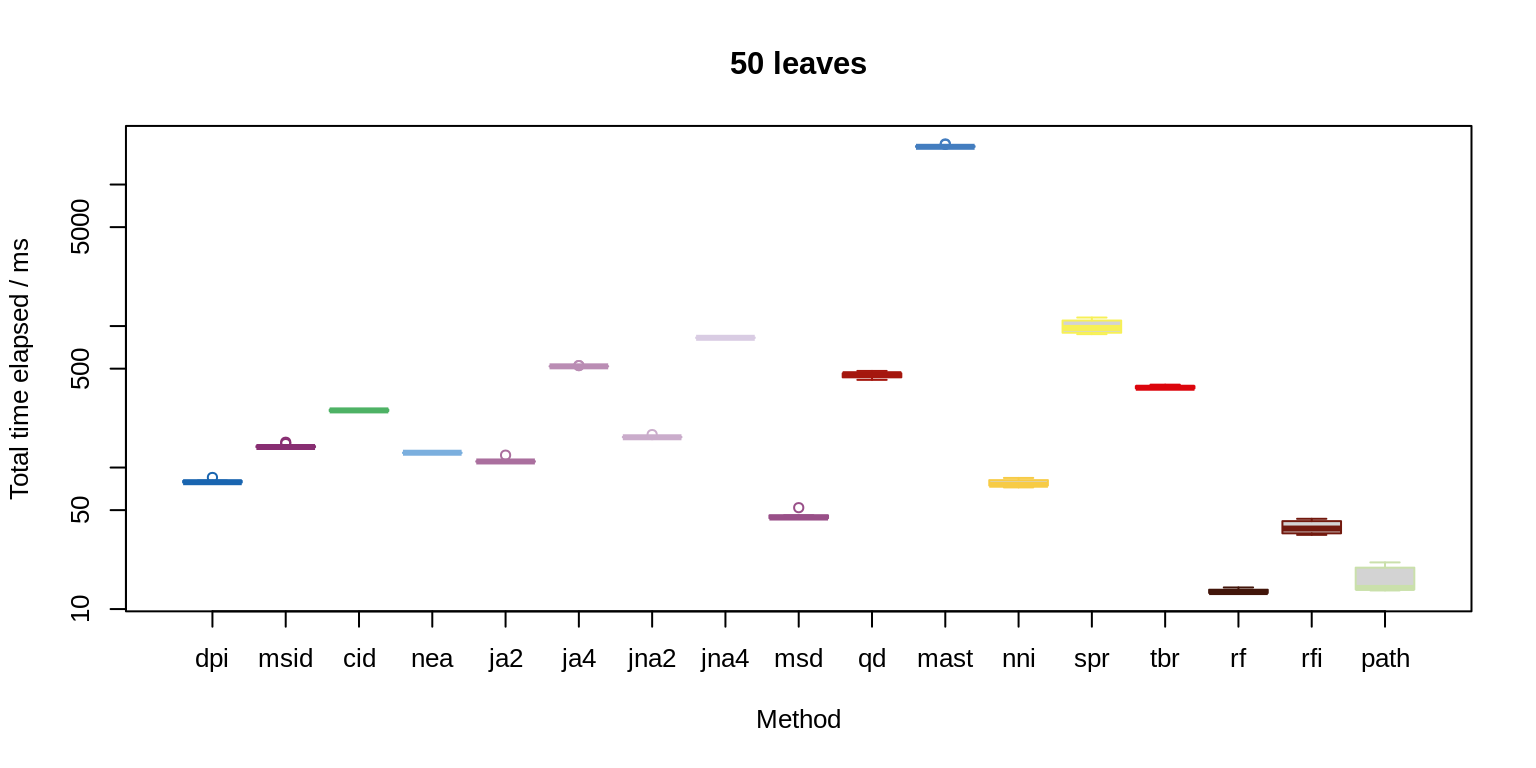
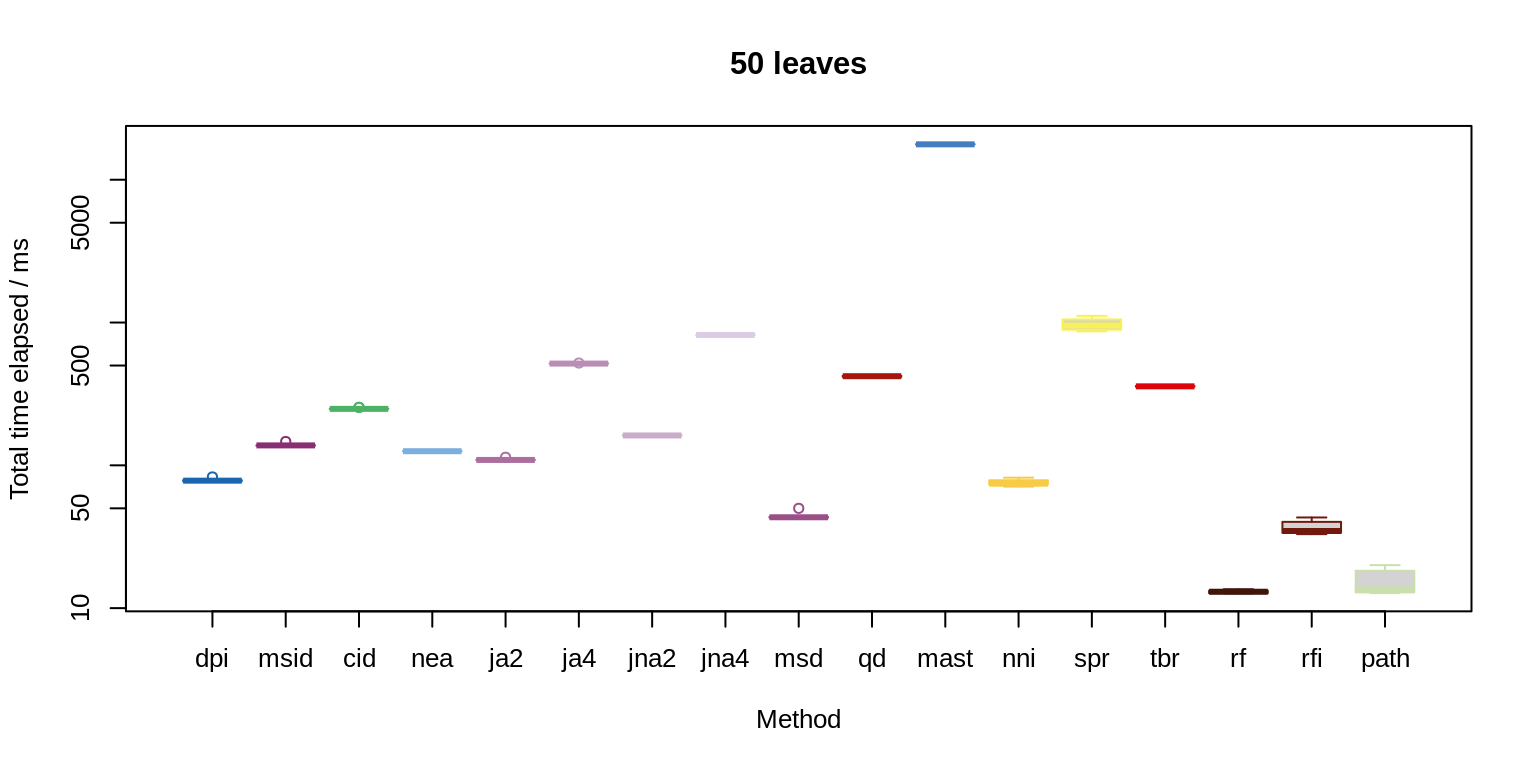
Built site for TreeDistData: 0.1.0@92e808e

diff --git a/articles/10-timing.html b/articles/10-timing.html
@@ -119,7 +119,7 @@
                         <h4 class="author">Martin R. Smith <a href="mailto:martin.smith@durham.ac.uk">martin.smith@durham.ac.uk</a>
 </h4>
             
-            <h4 class="date">2020-06-02</h4>
+            <h4 class="date">2020-06-03</h4>
       
       <small class="dont-index">Source: <a href="https://github.com/ms609/TreeDistData/blob/master/vignettes/10-timing.Rmd"><code>vignettes/10-timing.Rmd</code></a></small>
       <div class="hidden name"><code>10-timing.Rmd</code></div>
@@ -150,88 +150,88 @@ The values reported in Smith <span class="citation">(2020)</span> were calculate
 <tbody>
 <tr class="odd">
 <td>Path</td>
-<td align="right">9.6</td>
-<td align="right">17</td>
+<td align="right">8.6</td>
+<td align="right">16</td>
 </tr>
 <tr class="even">
 <td>Robinson-Foulds</td>
-<td align="right">13.0</td>
+<td align="right">12.0</td>
 <td align="right">13</td>
 </tr>
 <tr class="odd">
 <td>Match. Split Dist.</td>
-<td align="right">17.0</td>
-<td align="right">46</td>
+<td align="right">16.0</td>
+<td align="right">44</td>
 </tr>
 <tr class="even">
 <td>Phylog. Info. Dist</td>
-<td align="right">20.0</td>
-<td align="right">80</td>
+<td align="right">19.0</td>
+<td align="right">79</td>
 </tr>
 <tr class="odd">
 <td>Info. Corr. RF</td>
-<td align="right">21.0</td>
-<td align="right">38</td>
+<td align="right">20.0</td>
+<td align="right">37</td>
+</tr>
+<tr class="even">
+<td>Match. Split Info Dist</td>
+<td align="right">24.0</td>
+<td align="right">140</td>
+</tr>
+<tr class="odd">
+<td>Nye et al.</td>
+<td align="right">25.0</td>
+<td align="right">130</td>
 </tr>
 <tr class="even">
 <td>JRF (k=2, no conflict)</td>
-<td align="right">26.0</td>
+<td align="right">25.0</td>
 <td align="right">110</td>
 </tr>
 <tr class="odd">
-<td>Match. Split Info Dist</td>
-<td align="right">26.0</td>
-<td align="right">140</td>
-</tr>
-<tr class="even">
-<td>Nye et al.</td>
-<td align="right">26.0</td>
-<td align="right">130</td>
-</tr>
-<tr class="odd">
 <td>JRF (k=2, conflict ok)</td>
-<td align="right">30.0</td>
-<td align="right">170</td>
+<td align="right">29.0</td>
+<td align="right">160</td>
 </tr>
 <tr class="even">
 <td>Clust. Info. Dist.</td>
-<td align="right">45.0</td>
-<td align="right">260</td>
+<td align="right">43.0</td>
+<td align="right">250</td>
 </tr>
 <tr class="odd">
 <td>JRF (k=4, no conflict)</td>
-<td align="right">46.0</td>
-<td align="right">530</td>
+<td align="right">44.0</td>
+<td align="right">520</td>
 </tr>
 <tr class="even">
 <td>JRF (k=4, conflict ok)</td>
-<td align="right">57.0</td>
+<td align="right">54.0</td>
 <td align="right">830</td>
 </tr>
 <tr class="odd">
 <td>NNI (approx.)</td>
-<td align="right">67.0</td>
-<td align="right">78</td>
+<td align="right">62.0</td>
+<td align="right">76</td>
 </tr>
 <tr class="even">
 <td>SPR (approx.)</td>
-<td align="right">110.0</td>
-<td align="right">1000</td>
+<td align="right">100.0</td>
+<td align="right">980</td>
 </tr>
 <tr class="odd">
 <td>TBR (approx.)</td>
-<td align="right">210.0</td>
-<td align="right">370</td>
+<td align="right">200.0</td>
+<td align="right">360</td>
 </tr>
 <tr class="even">
 <td>Quartet</td>
-<td align="right">270.0</td>
-<td align="right">460</td>
+<td align="right">240.0</td>
+<td align="right">420</td>
 </tr>
 <tr class="odd">
 <td>MAST size</td>
-<td align="right">3600.0</td>
-<td align="right">19000</td>
+<td align="right">3400.0</td>
+<td align="right">18000</td>
 </tr>
 </tbody>
 </table>

diff --git a/CONTRIBUTING.html b/CONTRIBUTING.html
@@ -189,6 +189,7 @@
 <li>We use <a href="https://cran.r-project.org/package=testthat">testthat</a>. Contributions with test cases included are easier to accept.<br>
 </li>
 <li>For user-facing changes, add a bullet to the top of <code>NEWS.md</code> below the current development version header describing the changes made followed by your GitHub username, and links to relevant issue(s)/PR(s).</li>
+<li>We seek to recognize all contributions, however small; contributors are invited to add their details in <code>DESCRIPTION</code> with <code>role = 'ctb'</code>.</li>
 </ul>
 </div>
 <div id="code-of-conduct" class="section level3">

diff --git a/articles/04-saturation-and-sensitivity.html b/articles/04-saturation-and-sensitivity.html
@@ -118,7 +118,7 @@
       <h1 data-toc-skip>1.4, 1.5: Saturation and sensitivity</h1>
                         <h4 class="author">Martin R. Smith</h4>
             
-            <h4 class="date">2020-06-02</h4>
+            <h4 class="date">2020-06-03</h4>
       
       <small class="dont-index">Source: <a href="https://github.com/ms609/TreeDistData/blob/master/vignettes/04-saturation-and-sensitivity.Rmd"><code>vignettes/04-saturation-and-sensitivity.Rmd</code></a></small>
       <div class="hidden name"><code>04-saturation-and-sensitivity.Rmd</code></div>

diff --git a/articles/06-lin-cluster-recovery.html b/articles/06-lin-cluster-recovery.html
@@ -119,7 +119,7 @@
                         <h4 class="author">Martin R. Smith <a href="mailto:martin.smith@durham.ac.uk">martin.smith@durham.ac.uk</a>
 </h4>
             
-            <h4 class="date">2020-06-02</h4>
+            <h4 class="date">2020-06-03</h4>
       
       <small class="dont-index">Source: <a href="https://github.com/ms609/TreeDistData/blob/master/vignettes/06-lin-cluster-recovery.Rmd"><code>vignettes/06-lin-cluster-recovery.Rmd</code></a></small>
       <div class="hidden name"><code>06-lin-cluster-recovery.Rmd</code></div>

diff --git a/articles/09-expected-similarity.html b/articles/09-expected-similarity.html
@@ -118,7 +118,7 @@
       <h1 data-toc-skip>2.2: Context: tree distance values</h1>
                         <h4 class="author">Martin R. Smith</h4>
             
-            <h4 class="date">2020-06-02</h4>
+            <h4 class="date">2020-06-03</h4>
       
       <small class="dont-index">Source: <a href="https://github.com/ms609/TreeDistData/blob/master/vignettes/09-expected-similarity.Rmd"><code>vignettes/09-expected-similarity.Rmd</code></a></small>
       <div class="hidden name"><code>09-expected-similarity.Rmd</code></div>

diff --git a/articles/08-spr-walking.html b/articles/08-spr-walking.html
@@ -119,7 +119,7 @@
                         <h4 class="author">Martin R. Smith <a href="mailto:martin.smith@durham.ac.uk">martin.smith@durham.ac.uk</a>
 </h4>
             
-            <h4 class="date">2020-06-02</h4>
+            <h4 class="date">2020-06-03</h4>
       
       <small class="dont-index">Source: <a href="https://github.com/ms609/TreeDistData/blob/master/vignettes/08-spr-walking.Rmd"><code>vignettes/08-spr-walking.Rmd</code></a></small>
       <div class="hidden name"><code>08-spr-walking.Rmd</code></div>

diff --git a/articles/11-correlation.html b/articles/11-correlation.html
@@ -119,7 +119,7 @@
                         <h4 class="author">Martin R. Smith <a href="mailto:martin.smith@durham.ac.uk">martin.smith@durham.ac.uk</a>
 </h4>
             
-            <h4 class="date">2020-06-02</h4>
+            <h4 class="date">2020-06-03</h4>
       
       <small class="dont-index">Source: <a href="https://github.com/ms609/TreeDistData/blob/master/vignettes/11-correlation.Rmd"><code>vignettes/11-correlation.Rmd</code></a></small>
       <div class="hidden name"><code>11-correlation.Rmd</code></div>

diff --git a/articles/05-tree-shape.html b/articles/05-tree-shape.html
@@ -119,7 +119,7 @@
                         <h4 class="author">Martin R. Smith <a href="mailto:martin.smith@durham.ac.uk">martin.smith@durham.ac.uk</a>
 </h4>
             
-            <h4 class="date">2020-06-02</h4>
+            <h4 class="date">2020-06-03</h4>
       
       <small class="dont-index">Source: <a href="https://github.com/ms609/TreeDistData/blob/master/vignettes/05-tree-shape.Rmd"><code>vignettes/05-tree-shape.Rmd</code></a></small>
       <div class="hidden name"><code>05-tree-shape.Rmd</code></div>

diff --git a/articles/07-bullseye.html b/articles/07-bullseye.html
@@ -119,7 +119,7 @@
                         <h4 class="author">Martin R. Smith <a href="mailto:martin.smith@durham.ac.uk">martin.smith@durham.ac.uk</a>
 </h4>
             
-            <h4 class="date">2020-06-02</h4>
+            <h4 class="date">2020-06-03</h4>
       
       <small class="dont-index">Source: <a href="https://github.com/ms609/TreeDistData/blob/master/vignettes/07-bullseye.Rmd"><code>vignettes/07-bullseye.Rmd</code></a></small>
       <div class="hidden name"><code>07-bullseye.Rmd</code></div>

diff --git a/articles/02-leaves-moved.html b/articles/02-leaves-moved.html
@@ -118,7 +118,7 @@
       <h1 data-toc-skip>1.2: Number of leaves moved</h1>
                         <h4 class="author">Martin R. Smith</h4>
             
-            <h4 class="date">2020-06-02</h4>
+            <h4 class="date">2020-06-03</h4>
       
       <small class="dont-index">Source: <a href="https://github.com/ms609/TreeDistData/blob/master/vignettes/02-leaves-moved.Rmd"><code>vignettes/02-leaves-moved.Rmd</code></a></small>
       <div class="hidden name"><code>02-leaves-moved.Rmd</code></div>

diff --git a/articles/01-length-of-move.html b/articles/01-length-of-move.html
@@ -118,7 +118,7 @@
       <h1 data-toc-skip>1.1: Length of move</h1>
                         <h4 class="author">Martin R. Smith</h4>
             
-            <h4 class="date">2020-06-02</h4>
+            <h4 class="date">2020-06-03</h4>
       
       <small class="dont-index">Source: <a href="https://github.com/ms609/TreeDistData/blob/master/vignettes/01-length-of-move.Rmd"><code>vignettes/01-length-of-move.Rmd</code></a></small>
       <div class="hidden name"><code>01-length-of-move.Rmd</code></div>

diff --git a/articles/03-moves-made.html b/articles/03-moves-made.html
@@ -118,7 +118,7 @@
       <h1 data-toc-skip>1.3: Number of moves made</h1>
                         <h4 class="author">Martin R. Smith</h4>
             
-            <h4 class="date">2020-06-02</h4>
+            <h4 class="date">2020-06-03</h4>
       
       <small class="dont-index">Source: <a href="https://github.com/ms609/TreeDistData/blob/master/vignettes/03-moves-made.Rmd"><code>vignettes/03-moves-made.Rmd</code></a></small>
       <div class="hidden name"><code>03-moves-made.Rmd</code></div>
